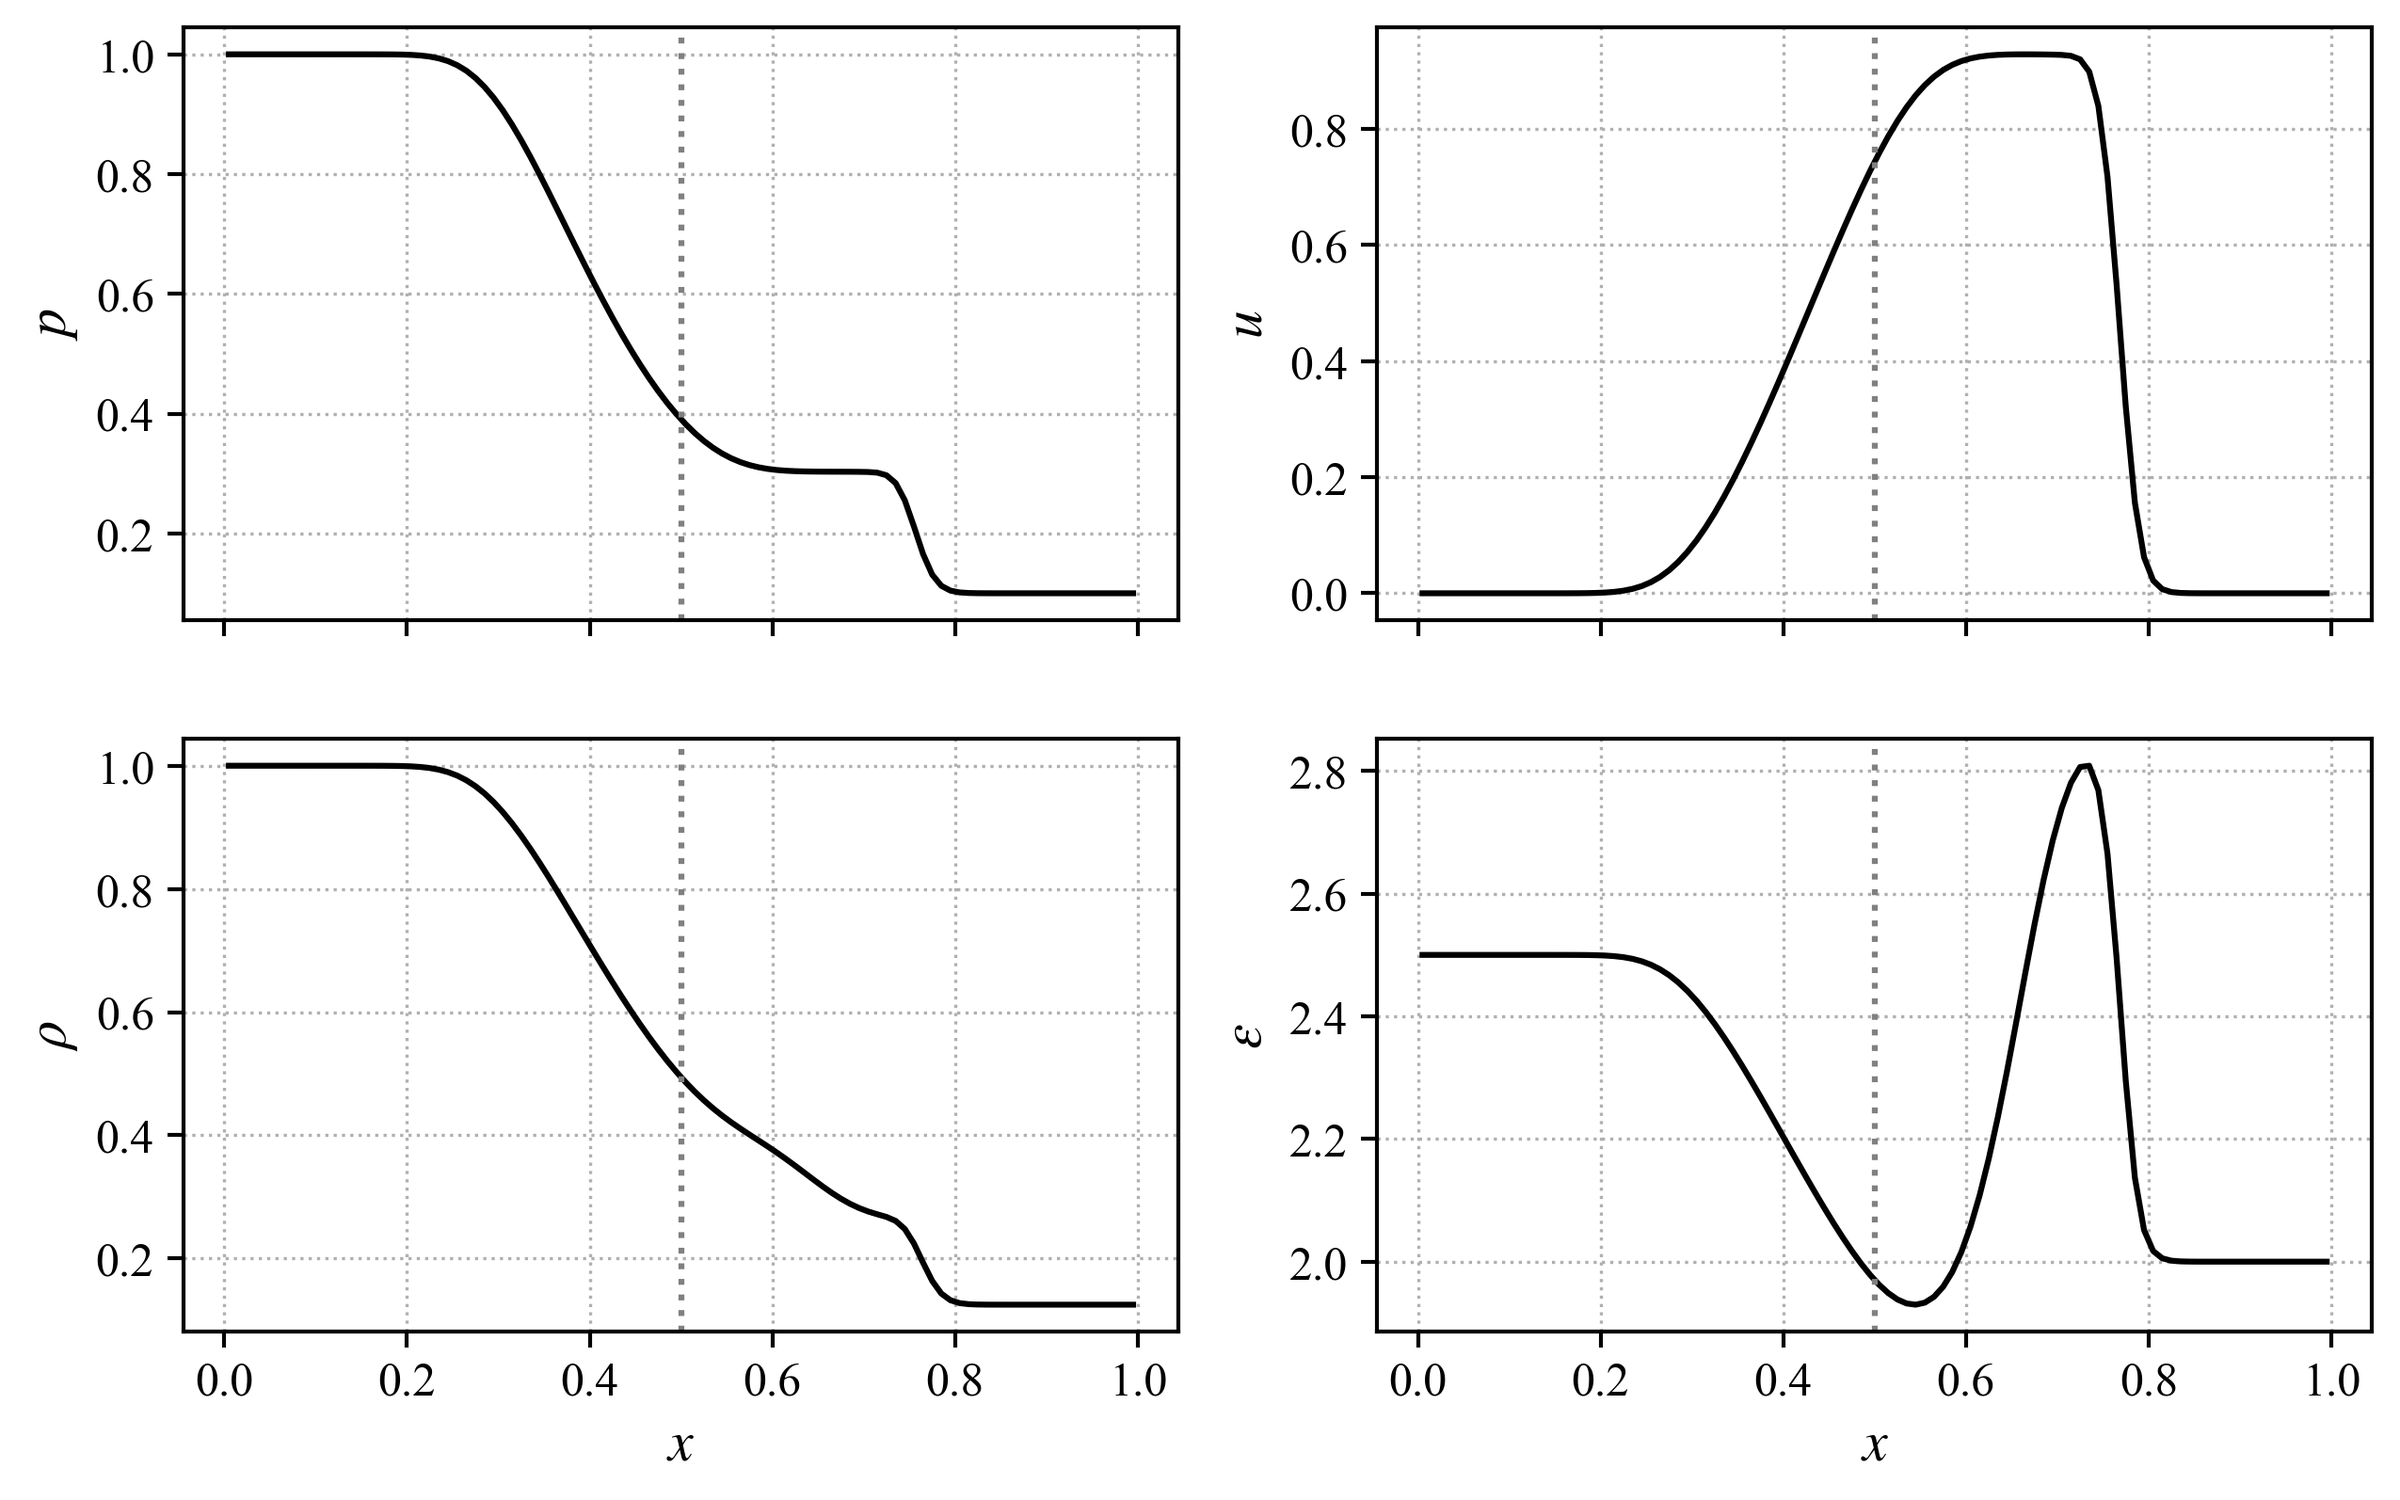
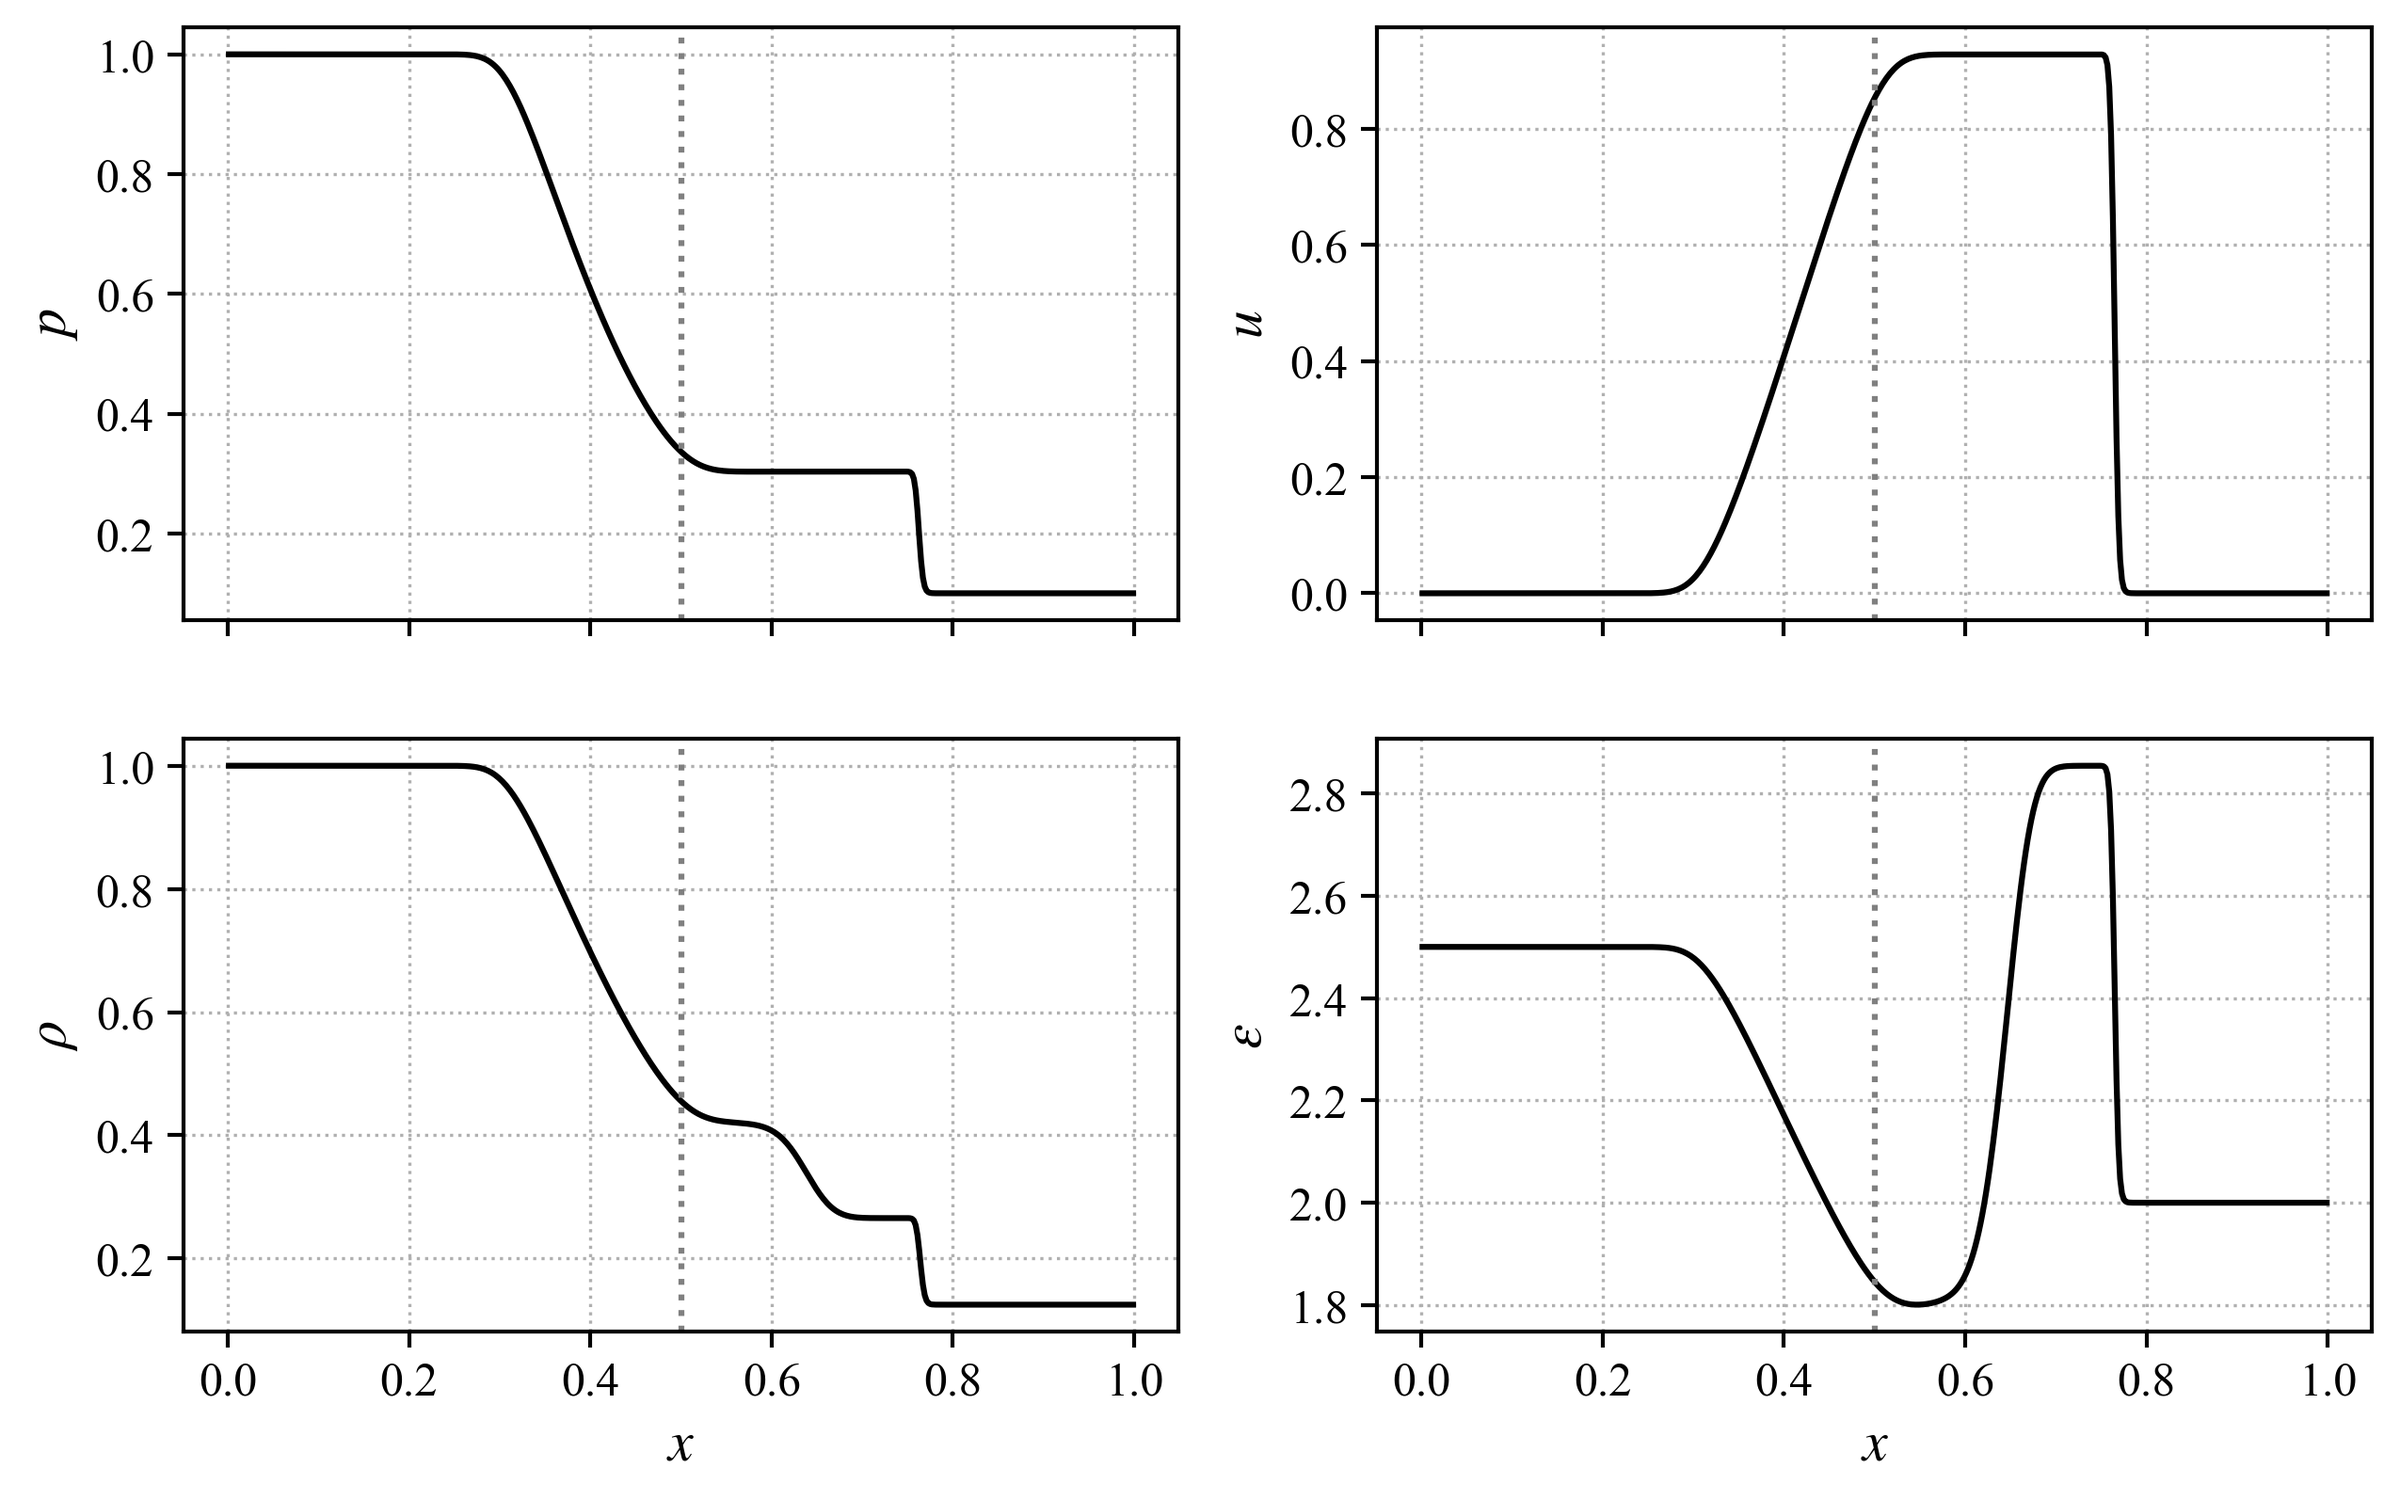
Fix sod_problem (n=500 instead of 100)

diff --git a/labs-1/sod_problem.py b/labs-1/sod_problem.py
@@ -320,7 +320,7 @@ def animate(x: np.ndarray, qs: np.ndarray, ps: np.ndarray):
 
 
 if __name__ == "__main__":
-    n = 100
+    n = 500
     duration = 0.15
     cfl = 0.75
     k_adiabatic = 1.4
